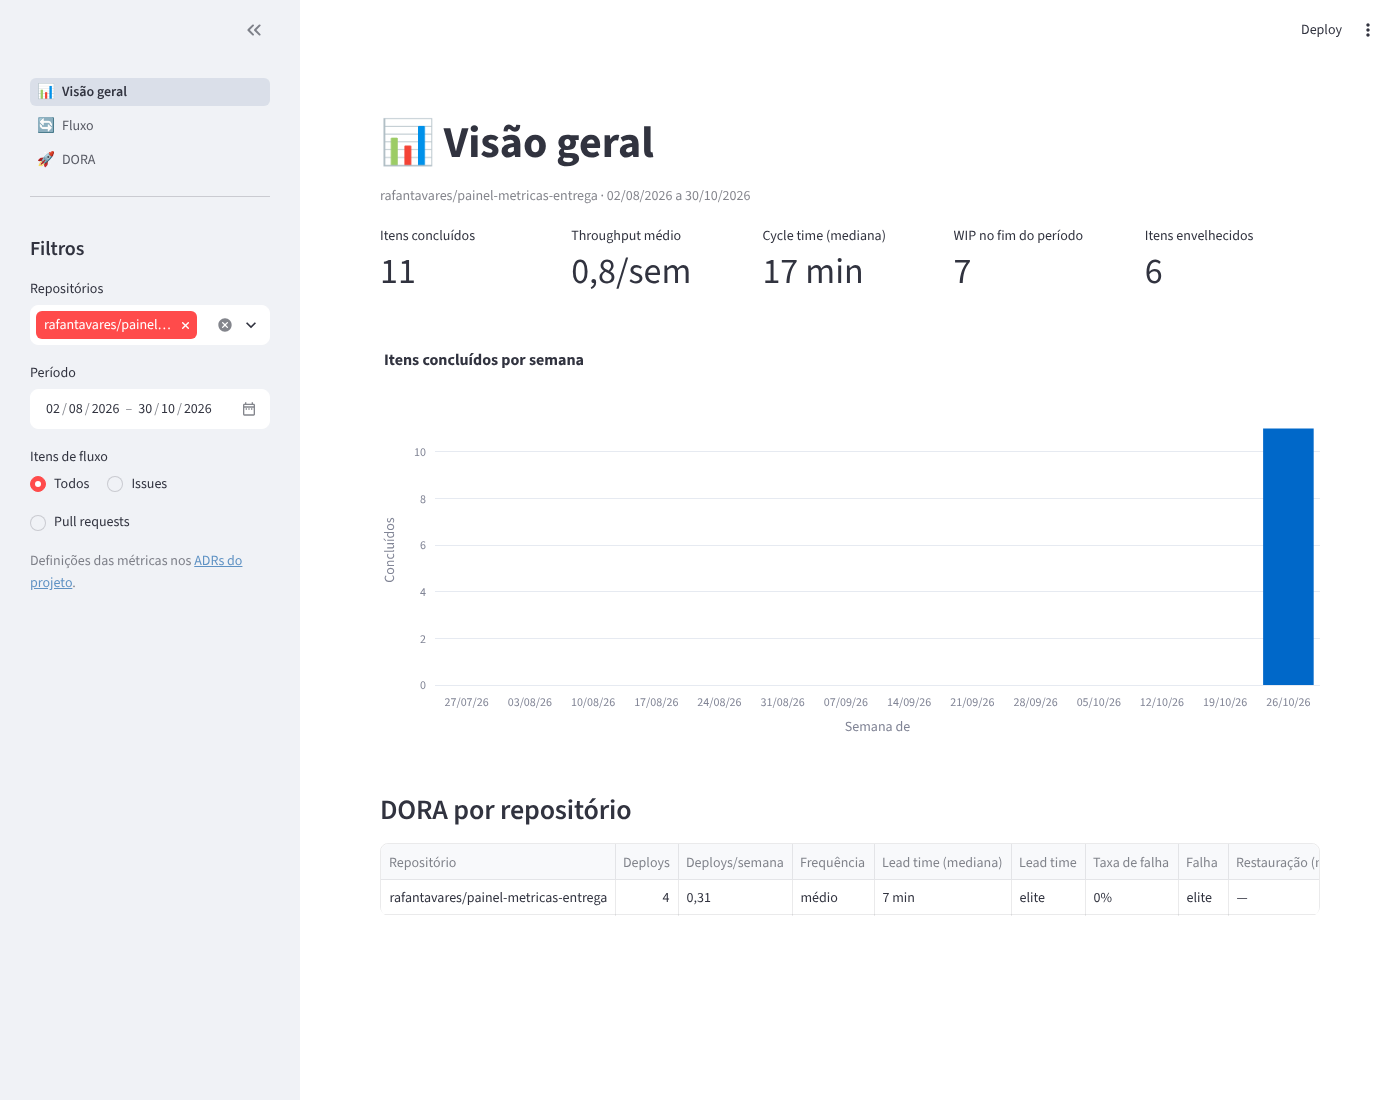
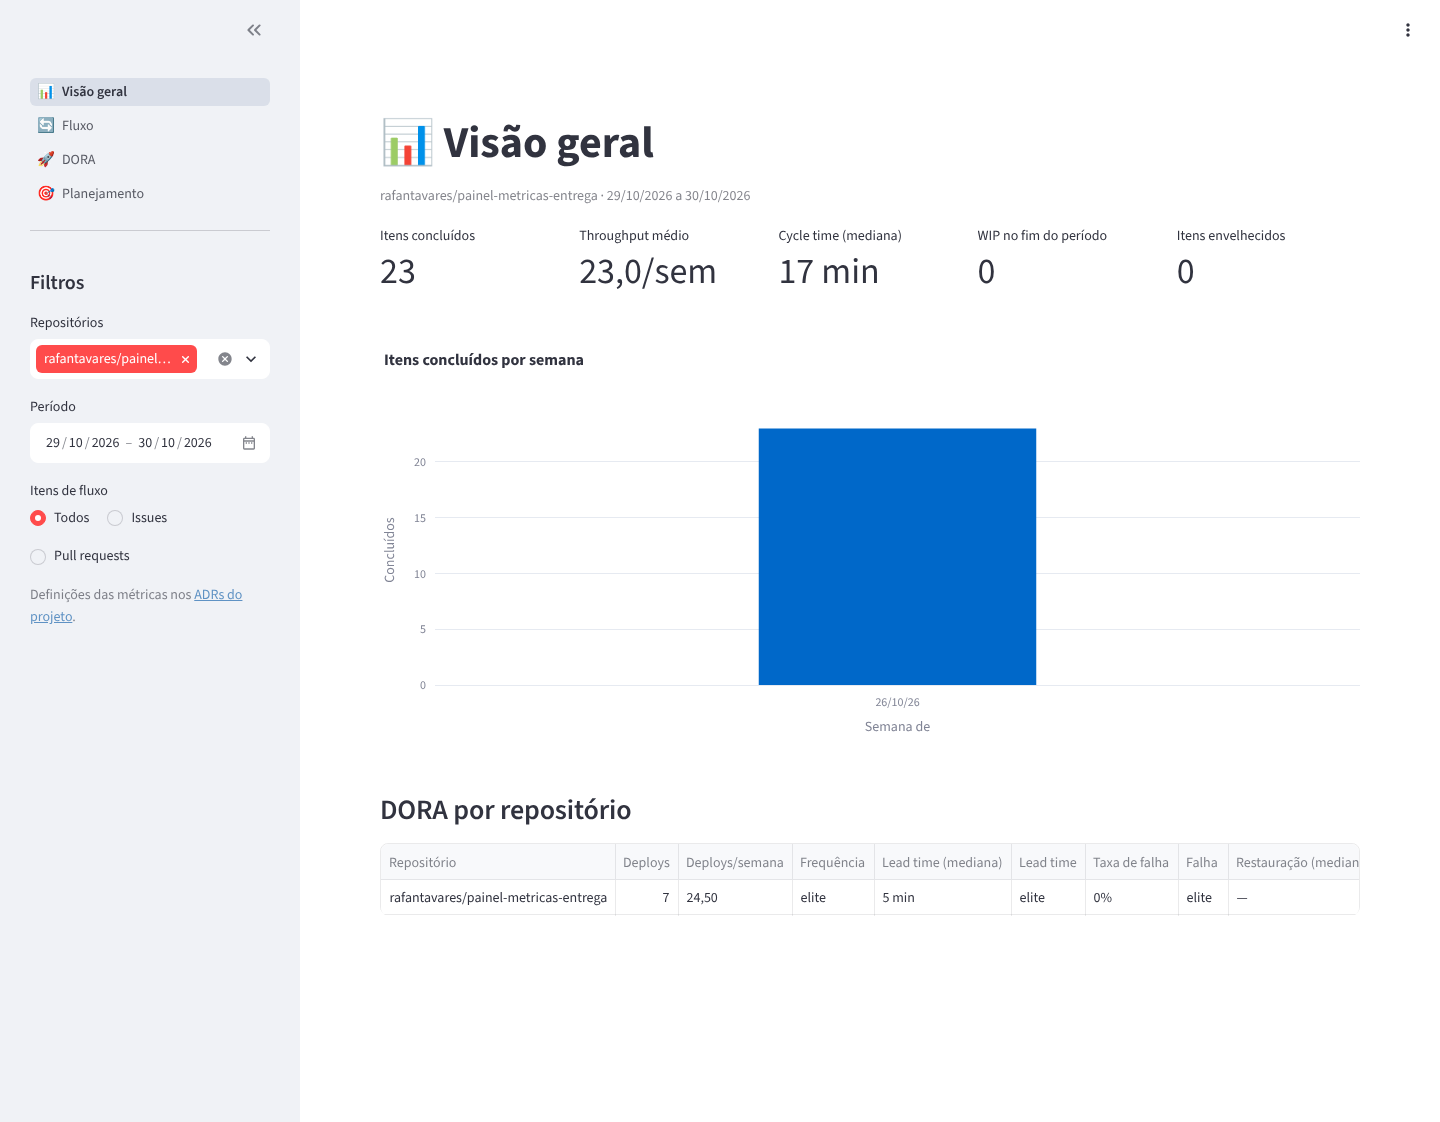
docs: capturas do painel local no README em vez de link público
M4 marcado como concluído; ADR 0006 registra que o painel não será
publicado.

Claude-Session: https://claude.ai/code/session_01RJwzVorYHFuPJBVr5g2Wi1

diff --git a/README.md b/README.md
@@ -53,7 +53,7 @@ Python 3.12 · httpx · DuckDB · pandas · Streamlit · Plotly · pytest · Ruf
 | **M1 – Fundação** | Estrutura do projeto, CI, coletor de issues e PRs | ✅ |
 | **M2 – Métricas de fluxo** | Throughput, cycle time, WIP, aging | ✅ |
 | **M3 – DORA** | As quatro métricas DORA a partir de releases/workflows | ✅ |
-| **M4 – Dashboard** | Painel Streamlit com filtros por repo e período, deploy público | ⏳ |
+| **M4 – Dashboard** | Painel Streamlit com filtros por repo e período, atualização agendada (execução local; publicação opcional) | ✅ |
 | **M5 – Planejamento** | Burndown por milestone, previsibilidade, relatório semanal | ⏳ |
 
 O detalhamento está nas [issues](../../issues) e no [board do projeto](../../projects).
@@ -114,18 +114,36 @@ O painel lê o mesmo arquivo DuckDB do coletor e tem quatro páginas:
 
 Os filtros ficam na barra lateral (repositórios, período e tipo de item), e cada tabela pode ser exportada em CSV.
 
+### Capturas de tela
+
+O painel rodando localmente com os dados deste próprio repositório (coleta de 30/10/2026, com o CI na `main` como regra de deploy).
+
+**Visão geral**: indicadores de fluxo e resumo DORA.
+
 ![Visão geral do dashboard](docs/img/dashboard-visao-geral.png)
 
-## Atualização automática e publicação
+**Fluxo**: throughput, distribuição do cycle time, WIP diário e itens envelhecidos.
+
+![Página Fluxo](docs/img/dashboard-fluxo.png)
+
+**DORA**: as quatro métricas com a classificação de desempenho.
+
+![Página DORA](docs/img/dashboard-dora.png)
+
+**Planejamento**: burndown por milestone e previsibilidade.
+
+![Página Planejamento](docs/img/dashboard-planejamento.png)
+
+## Atualização automática
 
 - O workflow [`coleta.yml`](.github/workflows/coleta.yml) roda o coletor **a cada 6 horas** (ou manualmente, na aba Actions) e publica o banco na branch `dados`.
-- O **painel público** fica no Streamlit Community Cloud e baixa esse banco a cada hora: **https://painel-metricas-entrega.streamlit.app**
+- O painel roda localmente (`streamlit run app/dashboard.py`). Para usar os dados da coleta agendada em vez de coletar na sua máquina, defina `PAINEL_BANCO_URL` (ver `.env.example`).
 - Os repositórios analisados e as regras de deploy da coleta agendada são variáveis do repositório: `PAINEL_REPOSITORIOS` e `PAINEL_REGRAS_DEPLOY`, em *Settings → Secrets and variables → Actions → Variables*. Sem elas, a coleta usa este repositório, com o CI na `main` como deploy.
 
 Os motivos dessas escolhas estão no [ADR 0006](docs/adr/0006-atualizacao-e-publicacao.md).
 
 <details>
-<summary>Como publicar sua própria cópia</summary>
+<summary>Opcional: publicar uma cópia no Streamlit Community Cloud</summary>
 
 1. Faça um fork e rode o workflow **Coleta agendada** uma vez (aba *Actions → Coleta agendada → Run workflow*). Isso cria a branch `dados`.
 2. Em [share.streamlit.io](https://share.streamlit.io), crie um app com:

diff --git a/docs/adr/0006-atualizacao-e-publicacao.md b/docs/adr/0006-atualizacao-e-publicacao.md
@@ -34,3 +34,7 @@ O termo de abertura pede um dashboard **público** e **atualizado automaticament
 - ⚠ Os dados podem ter até cerca de 7 horas de atraso (6 h entre coletas + 1 h de cache). Para um painel de tendências semanais, isso é aceitável.
 - ⚠ Workflows agendados em repositórios sem atividade por 60 dias são desativados pelo GitHub. É preciso reativá-los manualmente na aba Actions.
 - ⚠ O link `raw.githubusercontent.com` só funciona em repositório público. Se o repositório virar privado, será preciso trocar a forma de download (por exemplo, a API com token).
+
+## Atualização (30/10/2026)
+
+O painel deste repositório **não será publicado**. Ele roda localmente, e o README mostra capturas de tela da execução com os dados reais. O workflow de coleta e o download por `PAINEL_BANCO_URL` continuam valendo: a coleta agendada mantém a branch `dados` atualizada, e qualquer pessoa pode apontar o painel local, ou uma cópia publicada, para esse arquivo. Essa decisão muda o critério de sucesso "Dashboard público acessível e atualizado automaticamente" do termo de abertura, que deve ser revisto.
